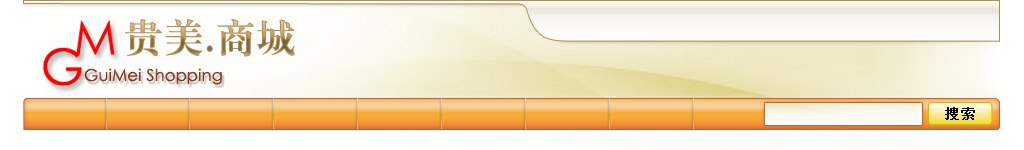
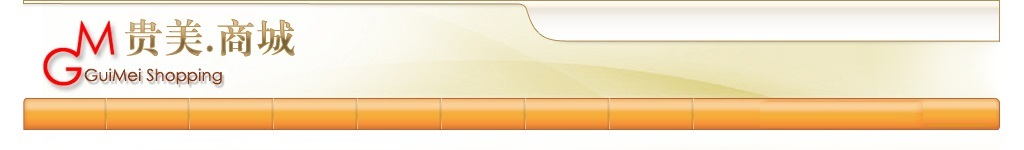
1

diff --git a/src/main/resources/templates/buy1.htm b/src/main/resources/templates/buy1.htm
@@ -80,6 +80,14 @@
         <td><input onchange="priceCalc()" name="count" type="text" value="1" maxlength="4" size="3"/></td>
         <td><a href="JavaScript:void(0)" onclick="remove(this)">删除</a></td>
       </tr>
+            <tr class="h26 blue">
+              <td><a href="info.htm" title="续航小霸王 Redmi 红米7">&nbsp;&nbsp;&nbsp;&nbsp;续航小霸王 Redmi 红米7</a></td>
+              <td><span class="c9">￥100</span></td>
+              <td><span class="red">￥80</span></td>
+              <td><span class="black">80折</span></td>
+              <td><input onchange="priceCalc()" name="count" type="text" value="1" maxlength="4" size="3"/></td>
+              <td><a href="JavaScript:void(0)" onclick="remove(this)">删除</a></td>
+            </tr>
 
       <tr class="h26">
         <td>&nbsp;&nbsp;&nbsp;&nbsp;<a href="catlist.htm">继续挑选商品</a></td>

diff --git a/target/classes/templates/buy1.htm b/target/classes/templates/buy1.htm
@@ -80,6 +80,14 @@
         <td><input onchange="priceCalc()" name="count" type="text" value="1" maxlength="4" size="3"/></td>
         <td><a href="JavaScript:void(0)" onclick="remove(this)">删除</a></td>
       </tr>
+            <tr class="h26 blue">
+              <td><a href="info.htm" title="续航小霸王 Redmi 红米7">&nbsp;&nbsp;&nbsp;&nbsp;续航小霸王 Redmi 红米7</a></td>
+              <td><span class="c9">￥100</span></td>
+              <td><span class="red">￥80</span></td>
+              <td><span class="black">80折</span></td>
+              <td><input onchange="priceCalc()" name="count" type="text" value="1" maxlength="4" size="3"/></td>
+              <td><a href="JavaScript:void(0)" onclick="remove(this)">删除</a></td>
+            </tr>
 
       <tr class="h26">
         <td>&nbsp;&nbsp;&nbsp;&nbsp;<a href="catlist.htm">继续挑选商品</a></td>

diff --git a/src/main/resources/templates/buy.htm b/src/main/resources/templates/buy.htm
@@ -80,6 +80,7 @@
         <td><input onchange="priceCalc()" name="count" type="text" value="1" maxlength="4" size="3"/></td>
         <td><a href="JavaScript:void(0)" onclick="remove(this)">删除</a></td>
       </tr>
+
       <tr class="h26">
         <td>&nbsp;&nbsp;&nbsp;&nbsp;<a href="catlist.htm">继续挑选商品</a></td>
         <td class="a_c" colspan="2" id="sum" class="pl58">￥527.40</td>
@@ -110,7 +111,7 @@
       </tr>
       <tr>
         <td class="h65">&nbsp;</td>
-        <td><input class="imginput" type="image" src="/images/submit.gif"  /></td>
+        <td><a href="address.htm"><img src="/images/submit.gif" alt="alt" /></a></td>
       </tr>
       </tbody>
   </table>

diff --git a/src/main/resources/templates/info1.htm b/src/main/resources/templates/info1.htm
@@ -33,7 +33,7 @@
 		<ul class="goodinfo f_l">
 			<li>一 口 价：<span>80.00元 </span></li>
 			<li>运　　费：<span>免运费</span></li>
-			<li class="h74 buynow"><a href="buy.htm"><img src="/images/buynow.gif" alt="alt" /></a></li>
+			<li class="h74 buynow"><a href="buy1.htm"><img src="/images/buynow.gif" alt="alt" /></a></li>
 			<li class="onlinepay">此商品支持<a href="#">花呗支付</a>，网上汇款免手续费。<br />收货满意后出售者才能拿钱，货款都安全！</li>
 			<li>剩余时间：<span>1天23小时</span></li>
 			<li>本期售出：<span>3件</span></li>

diff --git a/target/classes/templates/info1.htm b/target/classes/templates/info1.htm
@@ -33,7 +33,7 @@
 		<ul class="goodinfo f_l">
 			<li>一 口 价：<span>80.00元 </span></li>
 			<li>运　　费：<span>免运费</span></li>
-			<li class="h74 buynow"><a href="buy.htm"><img src="/images/buynow.gif" alt="alt" /></a></li>
+			<li class="h74 buynow"><a href="buy1.htm"><img src="/images/buynow.gif" alt="alt" /></a></li>
 			<li class="onlinepay">此商品支持<a href="#">花呗支付</a>，网上汇款免手续费。<br />收货满意后出售者才能拿钱，货款都安全！</li>
 			<li>剩余时间：<span>1天23小时</span></li>
 			<li>本期售出：<span>3件</span></li>

diff --git a/src/main/resources/templates/header.htm b/src/main/resources/templates/header.htm
@@ -69,7 +69,15 @@
   				<li><a href="help.htm" target="_parent">帮助中心</a></li>
   				<li><a href="help.htm" target="_parent">免费开店</a></li>
   				<li><a href="help.htm" target="_parent">全球咨询</a></li>
-  			</ul>
+
+					<form action="S" method="post">
+						<input type="text" style="width: 80%;" name="kw"/><input type="submit" value="搜索"/>
+						<table border="1">
+
+						</table>
+					</form>
+
+			</ul>
   		</div>	<!--nav	end-->
 		</div> <!--header	end-->
  </body>

diff --git a/target/classes/templates/header.htm b/target/classes/templates/header.htm
@@ -69,7 +69,15 @@
   				<li><a href="help.htm" target="_parent">帮助中心</a></li>
   				<li><a href="help.htm" target="_parent">免费开店</a></li>
   				<li><a href="help.htm" target="_parent">全球咨询</a></li>
-  			</ul>
+
+					<form action="S" method="post">
+						<input type="text" name="kw"/><input type="submit" value="搜索"/>
+						<table border="1">
+
+						</table>
+					</form>
+
+			</ul>
   		</div>	<!--nav	end-->
 		</div> <!--header	end-->
  </body>

diff --git a/src/main/java/buy/src.java b/src/main/java/buy/src.java
@@ -1,0 +1,4 @@
+package buy;
+
+public class src {
+}
